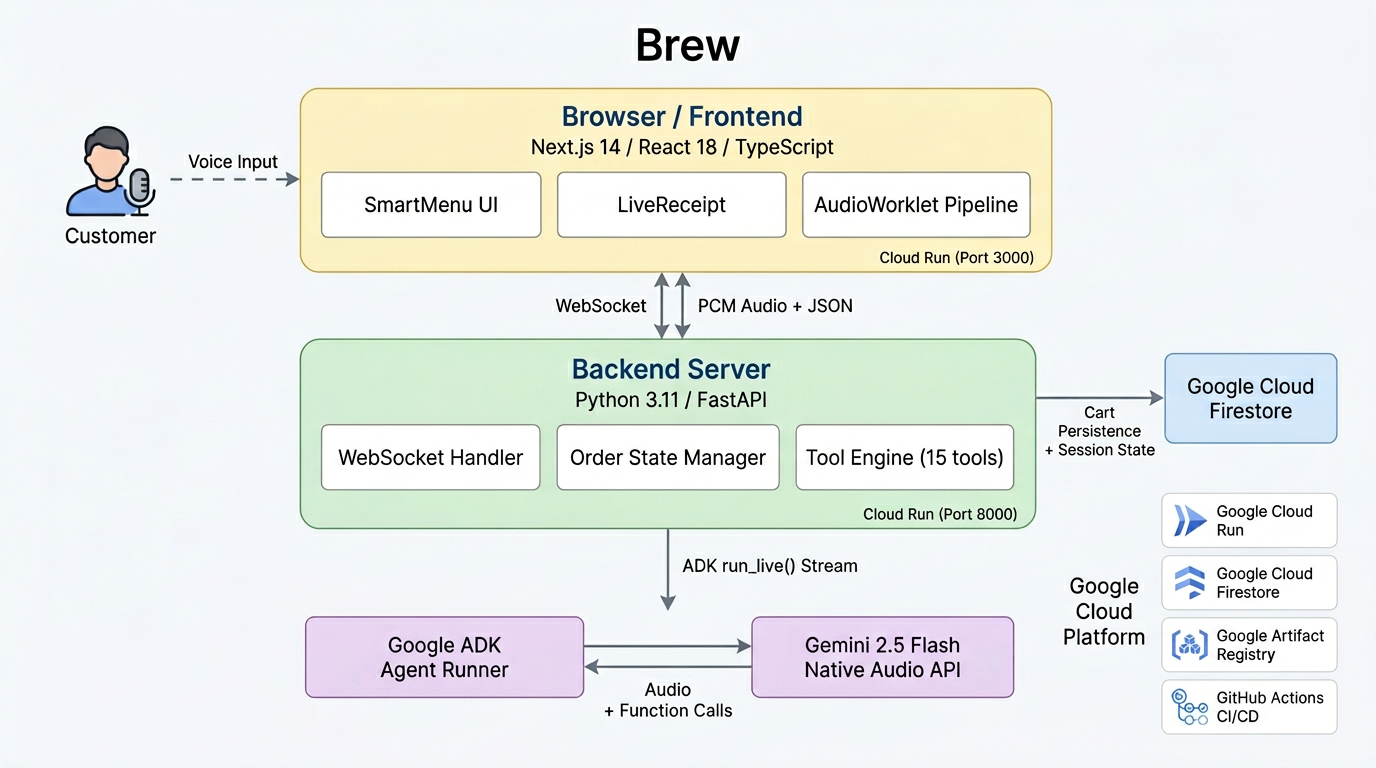
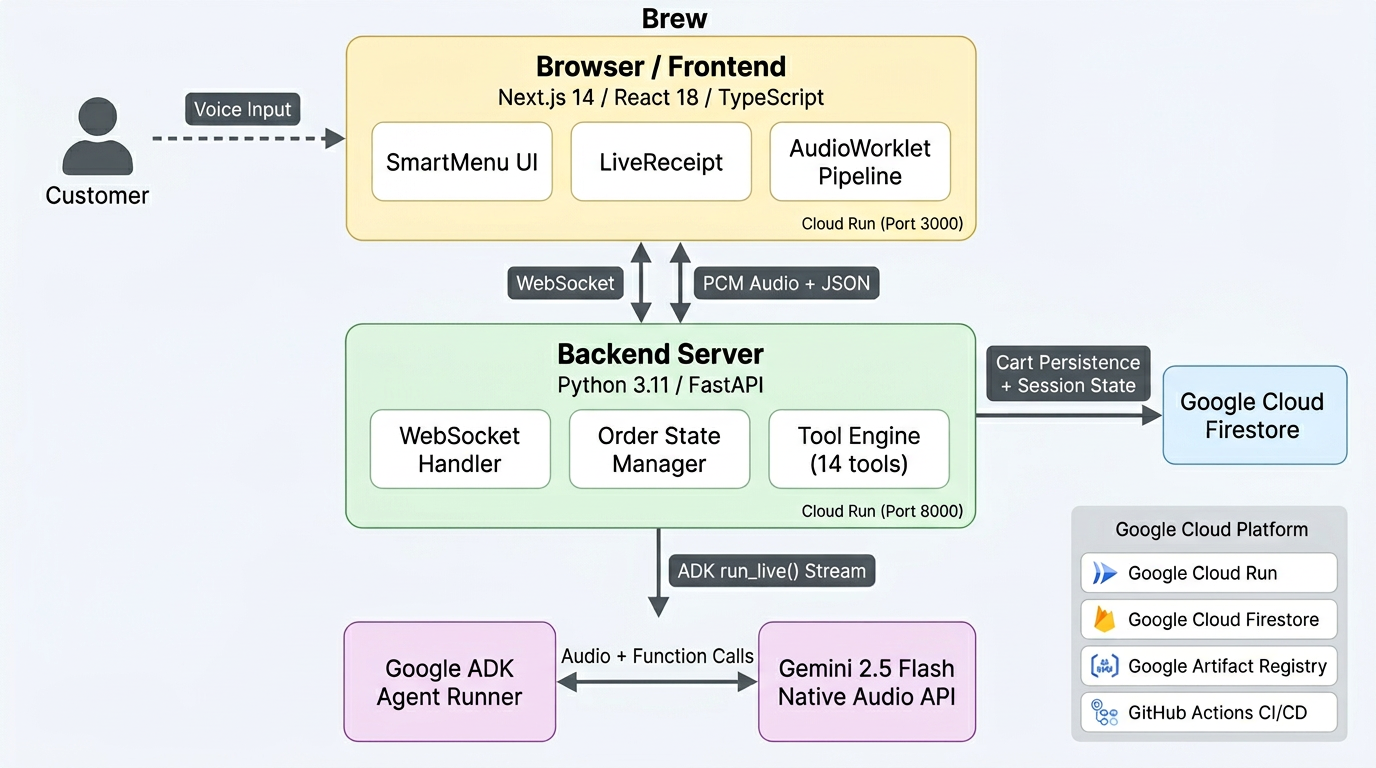
Fix tool count to 14 in architecture diagram and README
Made-with: Cursor

diff --git a/README.md b/README.md
@@ -100,7 +100,7 @@ The system has four layers:
 - Handles upstream (browser to Gemini) and downstream (Gemini to browser) data flow as concurrent async tasks
 
 **3. Agent Layer (Google ADK)**
-- The agent is defined using Google's Agent Development Kit (ADK) with 15 tools for order management
+- The agent is defined using Google's Agent Development Kit (ADK) with 14 tools for order management
 - ADK's `run_live()` method establishes a persistent bidirectional stream with the Gemini Live API
 - Tools are plain Python functions with docstrings that the model uses for function calling:
   - `add_item` / `add_items` -- add single or batch items to the order
@@ -330,7 +330,7 @@ gcloud run services delete brew-backend --region us-central1 --quiet
 Brew/
 ├── backend/
 │   ├── main.py                    # FastAPI WebSocket server, ADK run_live() orchestration
-│   ├── agent.py                   # Google ADK agent with 15 order management tools
+│   ├── agent.py                   # Google ADK agent with 14 order management tools
 │   ├── order_state.py             # Per-session order state with Firestore persistence
 │   ├── menu.py                    # Menu loader, system prompt builder, item validation
 │   ├── menu.json                  # Full menu data: drinks, breakfast, desserts, modifiers
